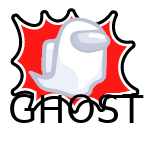
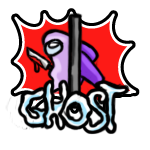
:tada: init mr freeze role

diff --git a/TheOtherRoles/Buttons.cs b/TheOtherRoles/Buttons.cs
@@ -19,6 +19,7 @@ namespace TheOtherRoles
         private static CustomButton morphlingButton;
         private static CustomButton invisibleButton;
         private static CustomButton camouflagerButton;
+        private static CustomButton mrFreezeButton;
         private static CustomButton hackerButton;
         private static CustomButton trackerButton;
         private static CustomButton vampireKillButton;
@@ -50,6 +51,7 @@ namespace TheOtherRoles
             morphlingButton.MaxTimer = Morphling.cooldown;
             invisibleButton.MaxTimer = Invisible.cooldown;
             camouflagerButton.MaxTimer = Camouflager.cooldown;
+            mrFreezeButton.MaxTimer = MrFreeze.cooldown;
             hackerButton.MaxTimer = Hacker.cooldown;
             vampireKillButton.MaxTimer = Vampire.cooldown;
             trackerButton.MaxTimer = 0f;
@@ -73,6 +75,7 @@ namespace TheOtherRoles
             vampireKillButton.EffectDuration = Vampire.delay;
             lighterButton.EffectDuration = Lighter.duration; 
             camouflagerButton.EffectDuration = Camouflager.duration;
+            mrFreezeButton.EffectDuration = MrFreeze.duration;
             morphlingButton.EffectDuration = Morphling.duration;
             invisibleButton.EffectDuration = Invisible.duration;
             lightsOutButton.EffectDuration = Trickster.lightsOutDuration;
@@ -375,6 +378,29 @@ namespace TheOtherRoles
                 true,
                 Camouflager.duration,
                 () => { camouflagerButton.Timer = camouflagerButton.MaxTimer; }
+            );
+
+            // MrFreeze freeze
+            mrFreezeButton = new CustomButton(
+                () => {
+                    MessageWriter writer = AmongUsClient.Instance.StartRpcImmediately(PlayerControl.LocalPlayer.NetId, (byte)CustomRPC.MrFreezeFreeze, Hazel.SendOption.Reliable, -1);
+                    AmongUsClient.Instance.FinishRpcImmediately(writer);
+                    RPCProcedure.mrFreezeFreeze();
+                },
+                () => { return MrFreeze.mrFreeze != null && MrFreeze.mrFreeze == PlayerControl.LocalPlayer && !PlayerControl.LocalPlayer.Data.IsDead; },
+                () => { return PlayerControl.LocalPlayer.CanMove; },
+                () => {
+                    mrFreezeButton.Timer = mrFreezeButton.MaxTimer;
+                    mrFreezeButton.isEffectActive = false;
+                    mrFreezeButton.killButtonManager.TimerText.color = Palette.EnabledColor;
+                },
+                MrFreeze.getButtonSprite(),
+                 new Vector3(-1.3f, 1.3f, 0f),
+                __instance,
+                KeyCode.F,
+                true,
+                MrFreeze.duration,
+                () => { mrFreezeButton.Timer = mrFreezeButton.MaxTimer; }
             );
 
             // Hacker button

diff --git a/TheOtherRoles/RPC.cs b/TheOtherRoles/RPC.cs
@@ -32,6 +32,7 @@ namespace TheOtherRoles
         Morphling,
         Invisible,
         Camouflager,
+        MrFreeze,
         Hacker,
         Mini,
         Tracker,
@@ -86,6 +87,7 @@ namespace TheOtherRoles
         MorphlingMorph,
         InvisibleInvis,
         CamouflagerCamouflage,
+        MrFreezeFreeze,
         TrackerUsedTracker,
         VampireSetBitten,
         VampireTryKill,
@@ -198,6 +200,9 @@ namespace TheOtherRoles
                         break;
                     case RoleId.Camouflager:
                         Camouflager.camouflager = player;
+                        break;
+                    case RoleId.MrFreeze:
+                        MrFreeze.mrFreeze = player;
                         break;
                     case RoleId.Hacker:
                         Hacker.hacker = player;
@@ -504,6 +509,13 @@ namespace TheOtherRoles
             Camouflager.camouflageTimer = Camouflager.duration;
         }
 
+        public static void mrFreezeFreeze()
+        {
+            if (MrFreeze.mrFreeze == null) return;
+
+            MrFreeze.mrFreezeTimer = MrFreeze.duration;
+        }
+
         public static void placeLogTrap(byte[] buff)
         {
             Vector3 position = Vector3.zero;
@@ -632,6 +644,7 @@ namespace TheOtherRoles
             if (player == Undertaker.undertaker) Undertaker.clearAndReload();
             if (player == Warlock.warlock) Warlock.clearAndReload();
             if (player == GhostLord.ghostLord) GhostLord.clearAndReload();
+            if (player == MrFreeze.mrFreeze) MrFreeze.clearAndReload();
 
             // Other roles
             if (player == Jester.jester) Jester.clearAndReload();
@@ -882,6 +895,9 @@ namespace TheOtherRoles
                     break;
                 case (byte)CustomRPC.CamouflagerCamouflage:
                     RPCProcedure.camouflagerCamouflage();
+                    break;
+                case (byte)CustomRPC.MrFreezeFreeze:
+                    RPCProcedure.mrFreezeFreeze();
                     break;
                 case (byte)CustomRPC.VampireSetBitten:
                     byte bittenId = reader.ReadByte();

diff --git a/TheOtherRoles/RoleInfo.cs b/TheOtherRoles/RoleInfo.cs
@@ -33,6 +33,7 @@ namespace TheOtherRoles
         public static RoleInfo morphling = new RoleInfo("Morphling", Morphling.color, "Change your look to not get caught", "Change your look", RoleId.Morphling);
         public static RoleInfo invisible = new RoleInfo("Invisible", Invisible.color, "I'm here, in the shadow...", "I'm here, in the shadow...", RoleId.Invisible);
         public static RoleInfo camouflager = new RoleInfo("Camouflager", Camouflager.color, "Camouflage and kill the Crewmates", "Hide among others", RoleId.Camouflager);
+        public static RoleInfo mrFreeze = new RoleInfo("Mr Freeze", MrFreeze.color, "Freeze everyone and kill the Crewmates", "Freeze everyone", RoleId.MrFreeze);
         public static RoleInfo vampire = new RoleInfo("Vampire", Vampire.color, "Kill the Crewmates with your bites", "Bite your enemies", RoleId.Vampire);
         public static RoleInfo eraser = new RoleInfo("Eraser", Eraser.color, "Kill the Crewmates and erase their roles", "Erase the roles of your enemies", RoleId.Eraser);
         public static RoleInfo trickster = new RoleInfo("Trickster", Trickster.color, "Use your jack-in-the-boxes to surprise others", "Surprise your enemies", RoleId.Trickster);
@@ -108,7 +109,8 @@ namespace TheOtherRoles
             securityGuard,
             bountyHunter,
             bait,
-            ghostLord
+            ghostLord,
+            mrFreeze
         };
 
         public static List<RoleInfo> getRoleInfoForPlayer(PlayerControl p) {
@@ -127,6 +129,7 @@ namespace TheOtherRoles
             if (p == Morphling.morphling) infos.Add(morphling);
             if (p == Invisible.invisible) infos.Add(invisible);
             if (p == Camouflager.camouflager) infos.Add(camouflager);
+            if (p == MrFreeze.mrFreeze) infos.Add(mrFreeze);
             if (p == Vampire.vampire) infos.Add(vampire);
             if (p == Eraser.eraser) infos.Add(eraser);
             if (p == Trickster.trickster) infos.Add(trickster);

diff --git a/TheOtherRoles/Patches/UpdatePatch.cs b/TheOtherRoles/Patches/UpdatePatch.cs
@@ -183,8 +183,39 @@ namespace TheOtherRoles.Patches {
             Hacker.hackerTimer -= Time.deltaTime;
             Lighter.lighterTimer -= Time.deltaTime;
             Trickster.lightsOutTimer -= Time.deltaTime;
-            
+            MrFreeze.mrFreezeTimer -= Time.deltaTime;
         }
+
+        static void mrFreezeFreezeAndUnfreeze()
+        {            
+            if (MrFreeze.mrFreeze != null)
+            {
+                if(MrFreeze.originalSpeed == null)
+                {
+                    MrFreeze.originalSpeed = MrFreeze.mrFreeze.MyPhysics.Speed;
+                }
+
+                if (MrFreeze.mrFreezeTimer > 0)
+                {
+                    foreach (PlayerControl p in PlayerControl.AllPlayerControls)
+                    {
+                        if(p != MrFreeze.mrFreeze)
+                        {
+                            p.MyPhysics.Speed = 0;
+                        }                        
+                    }
+                }
+                else
+                {
+                    foreach (PlayerControl p in PlayerControl.AllPlayerControls)
+                    {
+                        p.MyPhysics.Speed = MrFreeze.originalSpeed.Value;
+                    }
+                }
+            }
+        }        
+                
+              
 
         // manage timer for camouflager, morphing and ghost lord
         static void camouflageAndMorphActions() {
@@ -331,6 +362,9 @@ namespace TheOtherRoles.Patches {
             timerUpdate();
             // Camouflager and Morphling
             camouflageAndMorphActions();
+
+            // mrFreeze
+            mrFreezeFreezeAndUnfreeze();
             // Mini
             miniUpdate();
         }

diff --git a/TheOtherRoles/CustomOptions.cs b/TheOtherRoles/CustomOptions.cs
@@ -37,6 +37,10 @@ namespace TheOtherRoles {
         public static CustomOption camouflagerCooldown;
         public static CustomOption camouflagerDuration;
 
+        public static CustomOption mrFreezeSpawnRate;
+        public static CustomOption mrFreezeCooldown;
+        public static CustomOption mrFreezeDuration;
+
         public static CustomOption vampireSpawnRate;
         public static CustomOption vampireKillDelay;
         public static CustomOption vampireCooldown;
@@ -229,6 +233,10 @@ namespace TheOtherRoles {
             camouflagerSpawnRate = CustomOption.Create(30, cs(Camouflager.color, "Camouflager"), rates, null, true);
             camouflagerCooldown = CustomOption.Create(31, "Camouflager Cooldown", 27.5f, 10f, 60f, 2.5f, camouflagerSpawnRate);
             camouflagerDuration = CustomOption.Create(32, "Camo Duration", 10f, 1f, 20f, 0.5f, camouflagerSpawnRate);
+
+            mrFreezeSpawnRate = CustomOption.Create(380, cs(MrFreeze.color, "Mr Freeze"), rates, null, true);
+            mrFreezeCooldown = CustomOption.Create(381, "Mr Freeze Cooldown", 27.5f, 10f, 60f, 2.5f, mrFreezeSpawnRate);
+            mrFreezeDuration = CustomOption.Create(382, "Freeze Duration", 5f, 1f, 20f, 0.5f, mrFreezeSpawnRate);
 
             vampireSpawnRate = CustomOption.Create(40, cs(Vampire.color, "Vampire"), rates, null, true);
             vampireKillDelay = CustomOption.Create(41, "Vampire Kill Delay", 2f, 1f, 20f, 1f, vampireSpawnRate);

diff --git a/TheOtherRoles/TheOtherRoles.cs b/TheOtherRoles/TheOtherRoles.cs
@@ -58,6 +58,7 @@ namespace TheOtherRoles
             Logger.clearAndReload();
             Bait.clearAndReload();
             GhostLord.clearAndReload();
+            MrFreeze.clearAndReload();
         }
 
         public static class Jester {
@@ -909,6 +910,30 @@ namespace TheOtherRoles
             isDraging = false;
             deadBodyDraged = null;
             dragingDelaiAfterKill = CustomOptionHolder.undertakerDragingDelaiAfterKill.getFloat();
+        }
+    }
+
+   public static class MrFreeze {
+        public static PlayerControl mrFreeze;
+        public static Color color = Palette.ImpostorRed;
+    
+        public static float cooldown = 27.5f;
+        public static float duration = 5f;
+        public static float mrFreezeTimer = -1f;
+        public static float? originalSpeed = null;
+
+        private static Sprite buttonSprite;
+        public static Sprite getButtonSprite() {
+            if (buttonSprite) return buttonSprite;
+            buttonSprite = Helpers.loadSpriteFromResources("TheOtherRoles.Resources.MrFreezeButton.png", 115f);
+            return buttonSprite;
+        }
+
+        public static void clearAndReload() {            
+            mrFreeze = null;
+            mrFreezeTimer = -1f;
+            cooldown = CustomOptionHolder.mrFreezeCooldown.getFloat();
+            duration = CustomOptionHolder.mrFreezeDuration.getFloat();
         }
     }
 

diff --git a/TheOtherRoles/Patches/CredentialsPatch.cs b/TheOtherRoles/Patches/CredentialsPatch.cs
@@ -14,12 +14,12 @@ $@"<size=130%><color=#ff351f>TheOtherRoles</color></size> v{TheOtherRolesPlugin.
 <size=80%>Modded by <color=#FCCE03FF>Eisbison</color>,
 <color=#FCCE03FF>Thunderstorm584</color>, <color=#FCCE03FF>EndOfFile</color>,
 <color=#FCCE03FF>oPyRuSo</color> & <color=#FCCE03FF>Mamax49</color>
-Button design by <color=#FCCE03FF>Bavari</color> & <color=#FCCE03FF>oPyRuSo</color></size>";
+Button design by <color=#FCCE03FF>Bavari</color> & <color=#FCCE03FF>oPyRuSo</color> & <color=#471F5F>Keilwig</color></size>";
 
     public static string mainMenuCredentials = 
 $@"Modded by <color=#FCCE03FF>Eisbison</color>, <color=#FCCE03FF>Thunderstorm584</color>, <color=#FCCE03FF>EndOfFile</color>,
 <color=#FCCE03FF>oPyRuSo</color> & <color=#FCCE03FF>Mamax49</color>
-Design by <color=#FCCE03FF>Bavari</color>";
+Design by <color=#FCCE03FF>Bavari</color> & <color=#471F5F>Keilwig</color>";
 
         [HarmonyPatch(typeof(VersionShower), nameof(VersionShower.Start))]
         private static class VersionShowerPatch

diff --git a/TheOtherRoles/Patches/RoleAssignmentPatch.cs b/TheOtherRoles/Patches/RoleAssignmentPatch.cs
@@ -75,6 +75,7 @@ namespace TheOtherRoles.Patches {
             impSettings.Add((byte)RoleId.Warlock, CustomOptionHolder.warlockSpawnRate.getSelection());
             impSettings.Add((byte)RoleId.BountyHunter, CustomOptionHolder.bountyHunterSpawnRate.getSelection());
             impSettings.Add((byte)RoleId.GhostLord, CustomOptionHolder.ghostLordSpawnRate.getSelection());
+            impSettings.Add((byte)RoleId.MrFreeze, CustomOptionHolder.mrFreezeSpawnRate.getSelection());
 
             neutralSettings.Add((byte)RoleId.Jester, CustomOptionHolder.jesterSpawnRate.getSelection());
             neutralSettings.Add((byte)RoleId.Arsonist, CustomOptionHolder.arsonistSpawnRate.getSelection());

diff --git a/TheOtherRoles/Main.cs b/TheOtherRoles/Main.cs
@@ -21,7 +21,7 @@ namespace TheOtherRoles
     public class TheOtherRolesPlugin : BasePlugin
     {
         public const string Id = "me.eisbison.theotherroles";
-        public const string VersionString = "2.8.1.5";
+        public const string VersionString = "2.8.1.6";
         public static System.Version Version = System.Version.Parse(VersionString);
 
         public Harmony Harmony { get; } = new Harmony(Id);

diff --git a/TheOtherRoles/Patches/PlayerPhysicsPatch.cs b/TheOtherRoles/Patches/PlayerPhysicsPatch.cs
@@ -25,6 +25,7 @@ namespace TheOtherRoles.Patches
                     playerPhysics.body.velocity /= 2;
             }
         }
+
         static void removeGhostLordCollision(PlayerPhysics playerPhysics)
         {
             if (GhostLord.ghostLord == null || GhostLord.ghostLord != PlayerControl.LocalPlayer) return;
